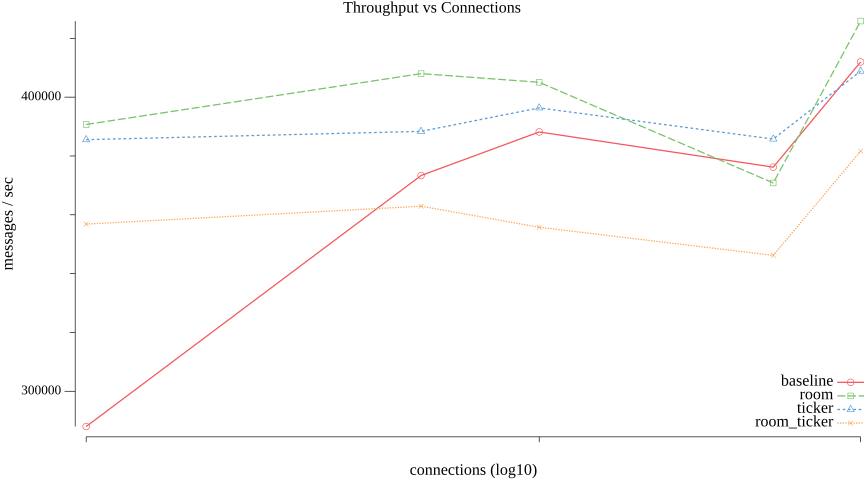
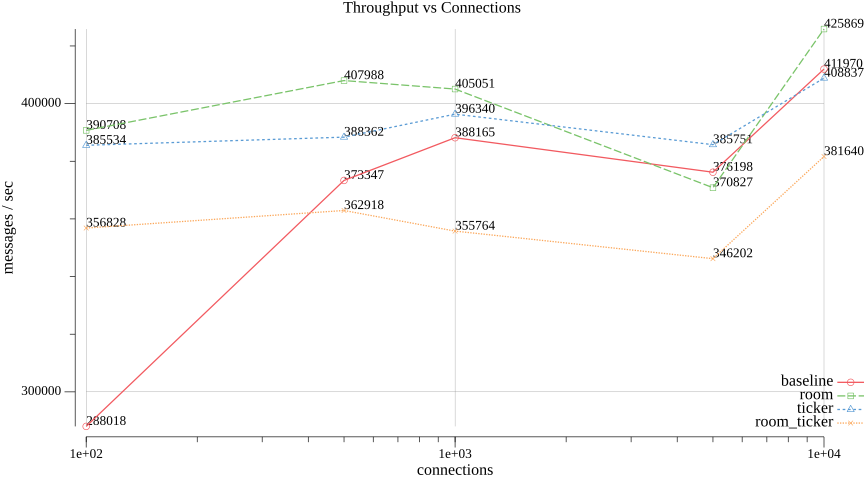
🐛 Fix double-log axis and label chart data points
Charts applied math.Log10 to X values AND set plot.LogScale{}, producing
unreadable axis ticks. Use raw connection counts with the native log
scale, add gridlines, and label each point with its exact value.

diff --git a/.benchmark/chart/plot.go b/.benchmark/chart/plot.go
@@ -5,7 +5,6 @@ package chart
 import (
 	"encoding/csv"
 	"fmt"
-	"math"
 	"os"
 	"path/filepath"
 	"strconv"
@@ -146,6 +145,7 @@ func readJitterCSV(path string) ([]jitterRow, error) {
 func logAxis(p *plot.Plot) {
 	p.X.Scale = plot.LogScale{}
 	p.X.Tick.Marker = plot.LogTicks{}
+	p.Add(plotter.NewGrid())
 }
 
 func toXY(rows []row, f func(row) float64) plotter.XYs {
@@ -154,21 +154,40 @@ func toXY(rows []row, f func(row) float64) plotter.XYs {
 		if r.connections <= 0 {
 			continue
 		}
-		pts = append(pts, struct{ X, Y float64 }{X: math.Log10(r.connections), Y: f(r)})
+		pts = append(pts, struct{ X, Y float64 }{X: r.connections, Y: f(r)})
 	}
 	return pts
+}
+
+// labelPoints adds a text label with each point's Y value above the marker,
+// so exact values are readable without hovering/zooming.
+func labelPoints(p *plot.Plot, pts plotter.XYs, format string) error {
+	labels := make([]string, len(pts))
+	for i, pt := range pts {
+		labels[i] = fmt.Sprintf(format, pt.Y)
+	}
+	l, err := plotter.NewLabels(plotter.XYLabels{XYs: pts, Labels: labels})
+	if err != nil {
+		return err
+	}
+	p.Add(l)
+	return nil
 }
 
 func latencyPlot(data map[string][]row) (*plot.Plot, error) {
 	p := plot.New()
 	p.Title.Text = "Latency (p99) vs Connections"
-	p.X.Label.Text = "connections (log10)"
+	p.X.Label.Text = "connections"
 	p.Y.Label.Text = "latency (ms)"
 	logAxis(p)
 
 	var args []interface{}
 	for _, s := range scenarios {
-		args = append(args, s, toXY(data[s], func(r row) float64 { return r.p99 }))
+		pts := toXY(data[s], func(r row) float64 { return r.p99 })
+		args = append(args, s, pts)
+		if err := labelPoints(p, pts, "%.2f"); err != nil {
+			return nil, err
+		}
 	}
 	if err := plotutil.AddLinePoints(p, args...); err != nil {
 		return nil, err
@@ -179,13 +198,17 @@ func latencyPlot(data map[string][]row) (*plot.Plot, error) {
 func memoryPlot(data map[string][]row) (*plot.Plot, error) {
 	p := plot.New()
 	p.Title.Text = "Memory per Connection vs Connections"
-	p.X.Label.Text = "connections (log10)"
+	p.X.Label.Text = "connections"
 	p.Y.Label.Text = "bytes / connection"
 	logAxis(p)
 
 	var args []interface{}
 	for _, s := range scenarios {
-		args = append(args, s, toXY(data[s], func(r row) float64 { return r.bytesPerConn }))
+		pts := toXY(data[s], func(r row) float64 { return r.bytesPerConn })
+		args = append(args, s, pts)
+		if err := labelPoints(p, pts, "%.0f"); err != nil {
+			return nil, err
+		}
 	}
 	if err := plotutil.AddLinePoints(p, args...); err != nil {
 		return nil, err
@@ -196,13 +219,17 @@ func memoryPlot(data map[string][]row) (*plot.Plot, error) {
 func throughputPlot(data map[string][]row) (*plot.Plot, error) {
 	p := plot.New()
 	p.Title.Text = "Throughput vs Connections"
-	p.X.Label.Text = "connections (log10)"
+	p.X.Label.Text = "connections"
 	p.Y.Label.Text = "messages / sec"
 	logAxis(p)
 
 	var args []interface{}
 	for _, s := range scenarios {
-		args = append(args, s, toXY(data[s], func(r row) float64 { return r.throughput }))
+		pts := toXY(data[s], func(r row) float64 { return r.throughput })
+		args = append(args, s, pts)
+		if err := labelPoints(p, pts, "%.0f"); err != nil {
+			return nil, err
+		}
 	}
 	if err := plotutil.AddLinePoints(p, args...); err != nil {
 		return nil, err
@@ -212,8 +239,8 @@ func throughputPlot(data map[string][]row) (*plot.Plot, error) {
 
 func jitterPlot(rows []jitterRow) (*plot.Plot, error) {
 	p := plot.New()
-	p.Title.Text = "Ticker Jitter vs Connections"
-	p.X.Label.Text = "connections (log10)"
+	p.Title.Text = "Ticker Jitter (p99) vs Connections"
+	p.X.Label.Text = "connections"
 	p.Y.Label.Text = "tick interval drift (ms)"
 	logAxis(p)
 
@@ -222,12 +249,16 @@ func jitterPlot(rows []jitterRow) (*plot.Plot, error) {
 		if r.connections <= 0 {
 			continue
 		}
-		byMode[r.mode] = append(byMode[r.mode], struct{ X, Y float64 }{X: math.Log10(r.connections), Y: r.p99})
+		byMode[r.mode] = append(byMode[r.mode], struct{ X, Y float64 }{X: r.connections, Y: r.p99})
 	}
 
 	var args []interface{}
 	for _, mode := range []string{"no_room", "room"} {
-		args = append(args, mode+" p99 drift", byMode[mode])
+		pts := byMode[mode]
+		args = append(args, mode+" p99 drift", pts)
+		if err := labelPoints(p, pts, "%.2f"); err != nil {
+			return nil, err
+		}
 	}
 	if err := plotutil.AddLinePoints(p, args...); err != nil {
 		return nil, err
